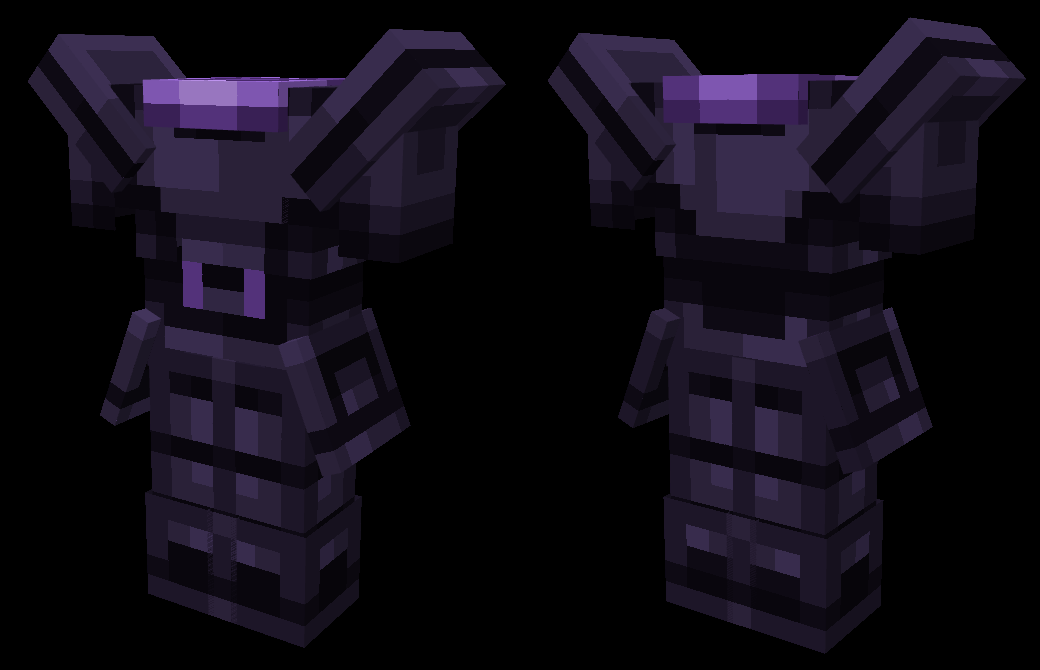
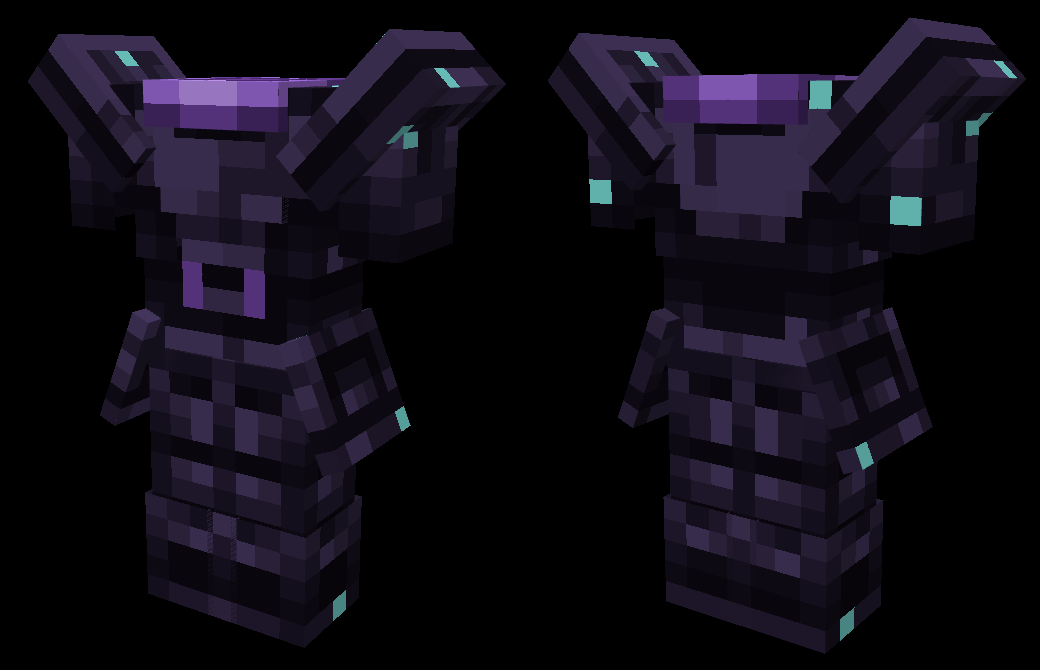
Leviathan armour texture: small scales on the plates and the Leviathan's cold photophores

diff --git a/tools/armor/recolor_knight.py b/tools/armor/recolor_knight.py
@@ -10,6 +10,7 @@ SRC = 'art/armor/knight/'
 OUT = 'src/main/resources/assets/soulless/textures/armor/'
 # dark to light
 SCALE = [(8, 6, 12), (16, 12, 23), (26, 20, 36), (37, 29, 51), (52, 41, 71), (70, 55, 96)]
+PHOTO = (120, 220, 215)
 GLOW = [(46, 26, 70), (78, 44, 116), (118, 72, 172), (160, 110, 222), (200, 160, 245)]
 
 
@@ -33,7 +34,20 @@ def recolor(name, out):
             lum = (0.3 * r + 0.59 * g + 0.11 * b) / 255
             green = 0.25 < h < 0.55 and s > 0.2
             # copper spans about 0.25..0.85 in brightness: stretch it over the scale ramp
-            c = ramp(GLOW, (lum - 0.3) / 0.6) if green else ramp(SCALE, (lum - 0.22) / 0.62)
+            if green:
+                c = ramp(GLOW, (lum - 0.3) / 0.6)
+            else:
+                t = (lum - 0.22) / 0.62
+                # character: on the plates' flat middle tones, small scales - a lit top row, a dark lower edge -
+                # in rows half a scale over, and now and then a cold light like the Leviathan's photophores
+                if 0.25 < t < 0.8:
+                    row = y // 3
+                    sx, sy = (x + (row % 2) * 2) % 4, y % 3
+                    t += 0.16 if sy == 0 and sx in (1, 2) else -0.2 if sy == 2 or sx == 0 else 0
+                    if (x * 7 + y * 13) % 41 == 0:
+                        px[x, y] = PHOTO + (a,)
+                        continue
+                c = ramp(SCALE, t)
             px[x, y] = c + (a,)
     im.save(OUT + out)
     im.resize((im.width * 12, im.height * 12), Image.NEAREST).save(SRC + out.replace('.png', '_x12.png'))
